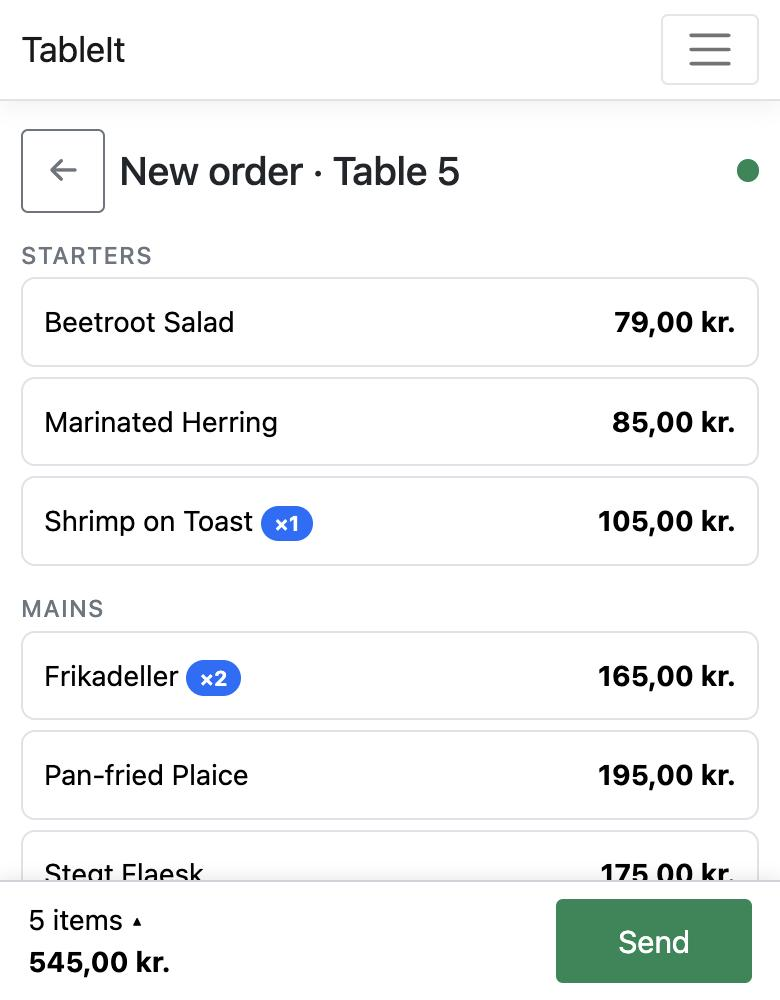
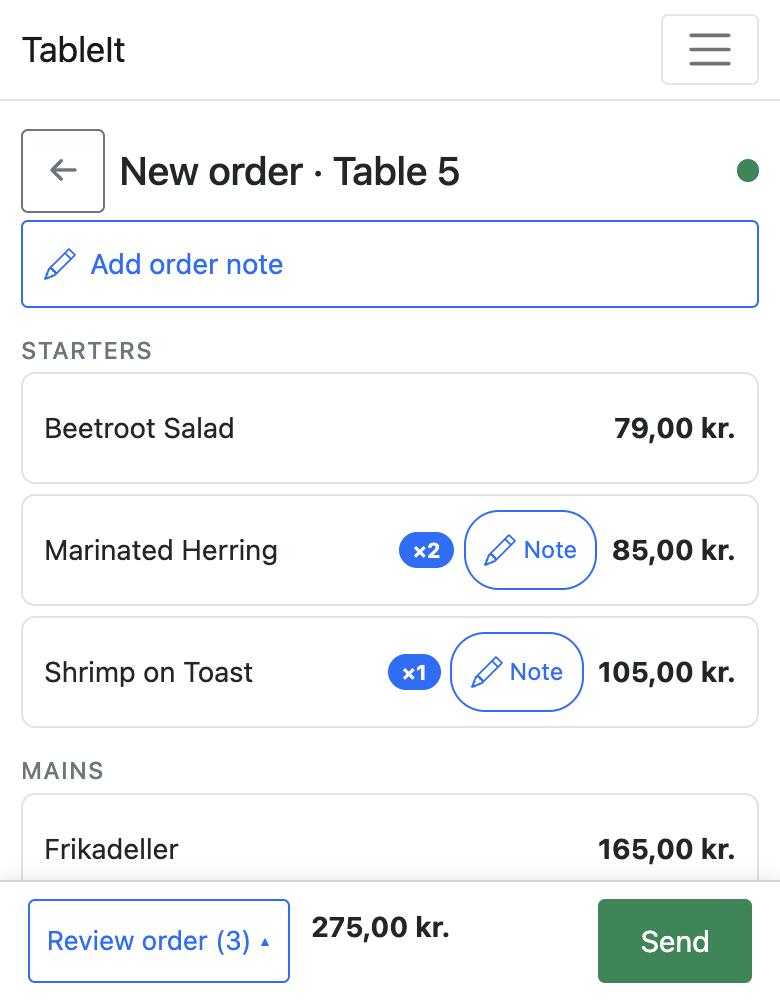
Make item and order notes easy to find in the staff order builder
Notes were already supported by the API and shown in the kitchen, but in
the staff builder they were hidden behind a small "N items" toggle, so
staff could not find them.

- "Add order note" button under the builder header (shows the note once
  written) that opens the order sheet and focuses the note field
- "Note" chip on menu rows for items in the draft, which opens and
  focuses that item's note without adding another one
- Bottom bar toggle now reads "Review order (N)" and shows a note count
- Sheet uses "Add note" buttons and a labelled order note field
- Badge and chip space is always reserved so menu rows never change
  height when items are added, including items with long names
- README: new "Adding notes" screenshot and updated order builder shot

diff --git a/src/TableItWeb/wwwroot/js/staff.js b/src/TableItWeb/wwwroot/js/staff.js
@@ -36,6 +36,25 @@
     function draftTotal() {
         return draft.lines.reduce(function (s, l) { const m = menuById(l.menuItemId); return s + (m ? m.price * l.quantity : 0); }, 0);
     }
+    const PENCIL = '<svg class="st-pencil" width="16" height="16" viewBox="0 0 16 16" fill="currentColor" aria-hidden="true"><path d="M12.146.146a.5.5 0 0 1 .708 0l3 3a.5.5 0 0 1 0 .708l-10 10a.5.5 0 0 1-.168.11l-5 2a.5.5 0 0 1-.65-.65l2-5a.5.5 0 0 1 .11-.168l10-10zM11.207 2.5 13.5 4.793 14.793 3.5 12.5 1.207 11.207 2.5zm1.586 3L10.5 3.207 4 9.707V10h.5a.5.5 0 0 1 .5.5v.5h.5a.5.5 0 0 1 .5.5v.5h.293l6.5-6.5zm-9.761 5.175-.106.106-1.528 3.821 3.821-1.528.106-.106A.5.5 0 0 1 5 12.5V12h-.5a.5.5 0 0 1-.5-.5V11h-.5a.5.5 0 0 1-.468-.325z"/></svg>';
+    function noteCount() {
+        return (draft.note.trim() ? 1 : 0) + draft.lines.filter(function (l) { return (l.note || '').trim(); }).length;
+    }
+    function noteIndHtml() {
+        const n = noteCount();
+        return n ? PENCIL + ' ' + n + ' note' + (n === 1 ? '' : 's') : '';
+    }
+    function orderNoteLabel() {
+        const n = draft.note.trim();
+        return n ? 'Note: ' + n : 'Add order note';
+    }
+    // Update note-related UI in place (no re-render, so inputs keep focus and caret).
+    function updateNoteUi() {
+        const ind = document.getElementById('st-notes-ind');
+        if (ind) ind.innerHTML = noteIndHtml();
+        const lbl = document.getElementById('st-ordernote-lbl');
+        if (lbl) lbl.textContent = orderNoteLabel();
+    }
     function draftCount() { return draft.lines.reduce(function (s, l) { return s + l.quantity; }, 0); }
 
     function route() {
@@ -129,13 +148,23 @@
 
         let html = '<div class="st-top"><button class="btn btn-outline-secondary st-back" data-act="builder-back" aria-label="Back">&larr;</button>' +
             '<h1>New order &middot; Table ' + esc(t.number) + '</h1>' + connDot() + '</div>';
+        html += '<button class="btn btn-outline-primary st-notebtn" data-act="order-note">' + PENCIL +
+            '<span class="st-ellip" id="st-ordernote-lbl">' + esc(orderNoteLabel()) + '</span></button>';
         if (!avail.length) html += '<p class="text-muted">No items available.</p>';
         sortCats(cats).forEach(function (c) {
             html += '<h3 class="st-cat">' + esc(c) + '</h3>';
             avail.filter(function (m) { return m.category === c; }).forEach(function (m) {
                 const q = qtyOf(m.id);
-                html += '<button class="st-item' + (flashId === m.id ? ' flash' : '') + '" data-act="add" data-id="' + m.id + '"><span>' + esc(m.name) +
-                    (q ? ' <span class="badge rounded-pill bg-primary">&times;' + q + '</span>' : '') + '</span><strong>' + esc(T.formatPrice(m.price)) + '</strong></button>';
+                // Badge and chip slots are always rendered (hidden when not in draft) so row height never changes on add.
+                let last = null;
+                draft.lines.forEach(function (l) { if (l.menuItemId === m.id) last = l; });
+                const hid = q ? '' : ' st-hidden';
+                html += '<div class="st-item' + (flashId === m.id ? ' flash' : '') + '" role="button" tabindex="0" data-act="add" data-id="' + m.id + '">' +
+                    '<span class="st-item-name">' + esc(m.name) + '</span>' +
+                    '<span class="st-item-side"><span class="st-slot' + hid + '"><span class="badge rounded-pill bg-primary">&times;' + q + '</span>' +
+                    '<button type="button" class="st-chip' + (last && last.note ? ' filled' : '') + '" data-act="item-note" data-id="' + m.id + '"' + (q ? '' : ' tabindex="-1"') +
+                    ' aria-label="Note for ' + esc(m.name) + '">' + PENCIL + 'Note</button></span>' +
+                    '<strong class="st-price">' + esc(T.formatPrice(m.price)) + '</strong></span></div>';
             });
         });
         flashId = null;
@@ -155,15 +184,17 @@
                 if (l.noteOpen || l.note) {
                     html += '<input type="text" class="form-control mt-1" maxlength="200" placeholder="Line note (e.g. no onions)" data-line-note="' + i + '" value="' + esc(l.note) + '">';
                 } else {
-                    html += '<button class="btn btn-link btn-sm p-0" data-act="line-note" data-i="' + i + '">+ note</button>';
+                    html += '<button class="btn btn-outline-secondary btn-sm st-addnote" data-act="line-note" data-i="' + i + '">' + PENCIL + 'Add note</button>';
                 }
                 html += '</div>';
             });
-            html += '<textarea class="form-control mt-2" rows="2" maxlength="500" placeholder="Order note (optional)" id="st-order-note">' + esc(draft.note) + '</textarea></div>';
+            html += '<label class="form-label fw-semibold mt-2 mb-1" for="st-order-note">Order note (for the kitchen)</label>' +
+                '<textarea class="form-control" rows="2" maxlength="500" placeholder="Order note (optional)" id="st-order-note">' + esc(draft.note) + '</textarea></div>';
         }
-        html += '<div class="st-bar-in"><button class="sum st-sum" data-act="toggle-sheet" aria-expanded="' + sheetOpen + '">' +
-            '<div>' + count + ' item' + (count === 1 ? '' : 's') + ' ' + (sheetOpen ? '&#9662;' : '&#9652;') + '</div>' +
-            '<strong>' + esc(T.formatPrice(draftTotal())) + '</strong></button>' +
+        html += '<div class="st-bar-in"><button class="btn btn-outline-primary st-toggle" data-act="toggle-sheet" aria-expanded="' + sheetOpen + '">' +
+            (sheetOpen ? 'Hide order &#9662;' : 'Review order (' + count + ') &#9652;') + '</button>' +
+            '<div class="sum"><strong>' + esc(T.formatPrice(draftTotal())) + '</strong>' +
+            '<div class="st-notes-ind" id="st-notes-ind">' + noteIndHtml() + '</div></div>' +
             '<button class="btn btn-success" data-act="send"' + (count === 0 || sending ? ' disabled' : '') + '>' +
             (sending ? '<span class="spinner-border spinner-border-sm me-1"></span>Sending' : 'Send') + '</button></div></div>';
         root.innerHTML = html;
@@ -241,6 +272,19 @@
                 const inp = root.querySelector('[data-line-note="' + i + '"]'); if (inp) inp.focus();
                 break;
             }
+            case 'order-note': {
+                sheetOpen = true; renderKeepScroll();
+                const ta = document.getElementById('st-order-note'); if (ta) ta.focus();
+                break;
+            }
+            case 'item-note': {
+                let idx = -1;
+                draft.lines.forEach(function (l, k) { if (l.menuItemId === id) idx = k; });
+                if (idx < 0) break;
+                draft.lines[idx].noteOpen = true; sheetOpen = true; renderKeepScroll();
+                const inp = root.querySelector('[data-line-note="' + idx + '"]'); if (inp) inp.focus();
+                break;
+            }
             case 'toggle-sheet': sheetOpen = !sheetOpen; renderKeepScroll(); break;
             case 'send': send(); break;
         }
@@ -250,6 +294,15 @@
         const t = ev.target;
         if (t.id === 'st-order-note') draft.note = t.value;
         else if (t.dataset.lineNote !== undefined) draft.lines[+t.dataset.lineNote].note = t.value;
+        else return;
+        updateNoteUi();
+    });
+
+    root.addEventListener('keydown', function (ev) {
+        const t = ev.target;
+        if ((ev.key === 'Enter' || ev.key === ' ') && t.classList && t.classList.contains('st-item')) {
+            ev.preventDefault(); addToDraft(+t.dataset.id);
+        }
     });
 
     window.addEventListener('hashchange', function () {

diff --git a/README.md b/README.md
@@ -17,10 +17,13 @@ TableIt is a system for restaurants to organise their seating plan and their ord
 
 ### Floor staff: `/Staff`
 
-| Tables | Taking an order | A table's orders |
-|---|---|---|
-| ![Grid of tables with badges showing open orders](docs/images/staff-tables.jpg) | ![Order builder with menu items grouped by category and a running total](docs/images/staff-order.jpg) | ![Table 2 with a ready order and a Mark served button](docs/images/staff-table.jpg) |
-| Each table shows its seat count. The badge counts open orders, coloured by the most urgent status (green means food is ready). | Tap items to add them. The menu stays in place, and the draft, notes and total sit in the bottom bar. | Tonight's orders for the table and their status. Ready orders can be marked as served. |
+| Tables | Taking an order |
+|---|---|
+| ![Grid of tables with badges showing open orders](docs/images/staff-tables.jpg) | ![Order builder with menu items grouped by category, quantity badges and Note buttons](docs/images/staff-order.jpg) |
+| Each table shows its seat count. The badge counts open orders, coloured by the most urgent status (green means food is ready). | Tap items to add them. The menu stays in place as you add. Items in the order show a quantity badge and a **Note** button. |
+| **Adding notes** | **A table's orders** |
+| ![Order sheet with an item note and an order note for the kitchen](docs/images/staff-notes.jpg) | ![Table 2 with a ready order and a Mark served button](docs/images/staff-table.jpg) |
+| Notes can go on a single item ("one without onions") or on the whole order ("Allergy: nuts"). Both appear on the kitchen card. Open the order sheet with **Review order** to change quantities and notes. | Tonight's orders for the table and their status. Ready orders can be marked as served. |
 
 ### Kitchen: order display, `/Kitchen`
 
